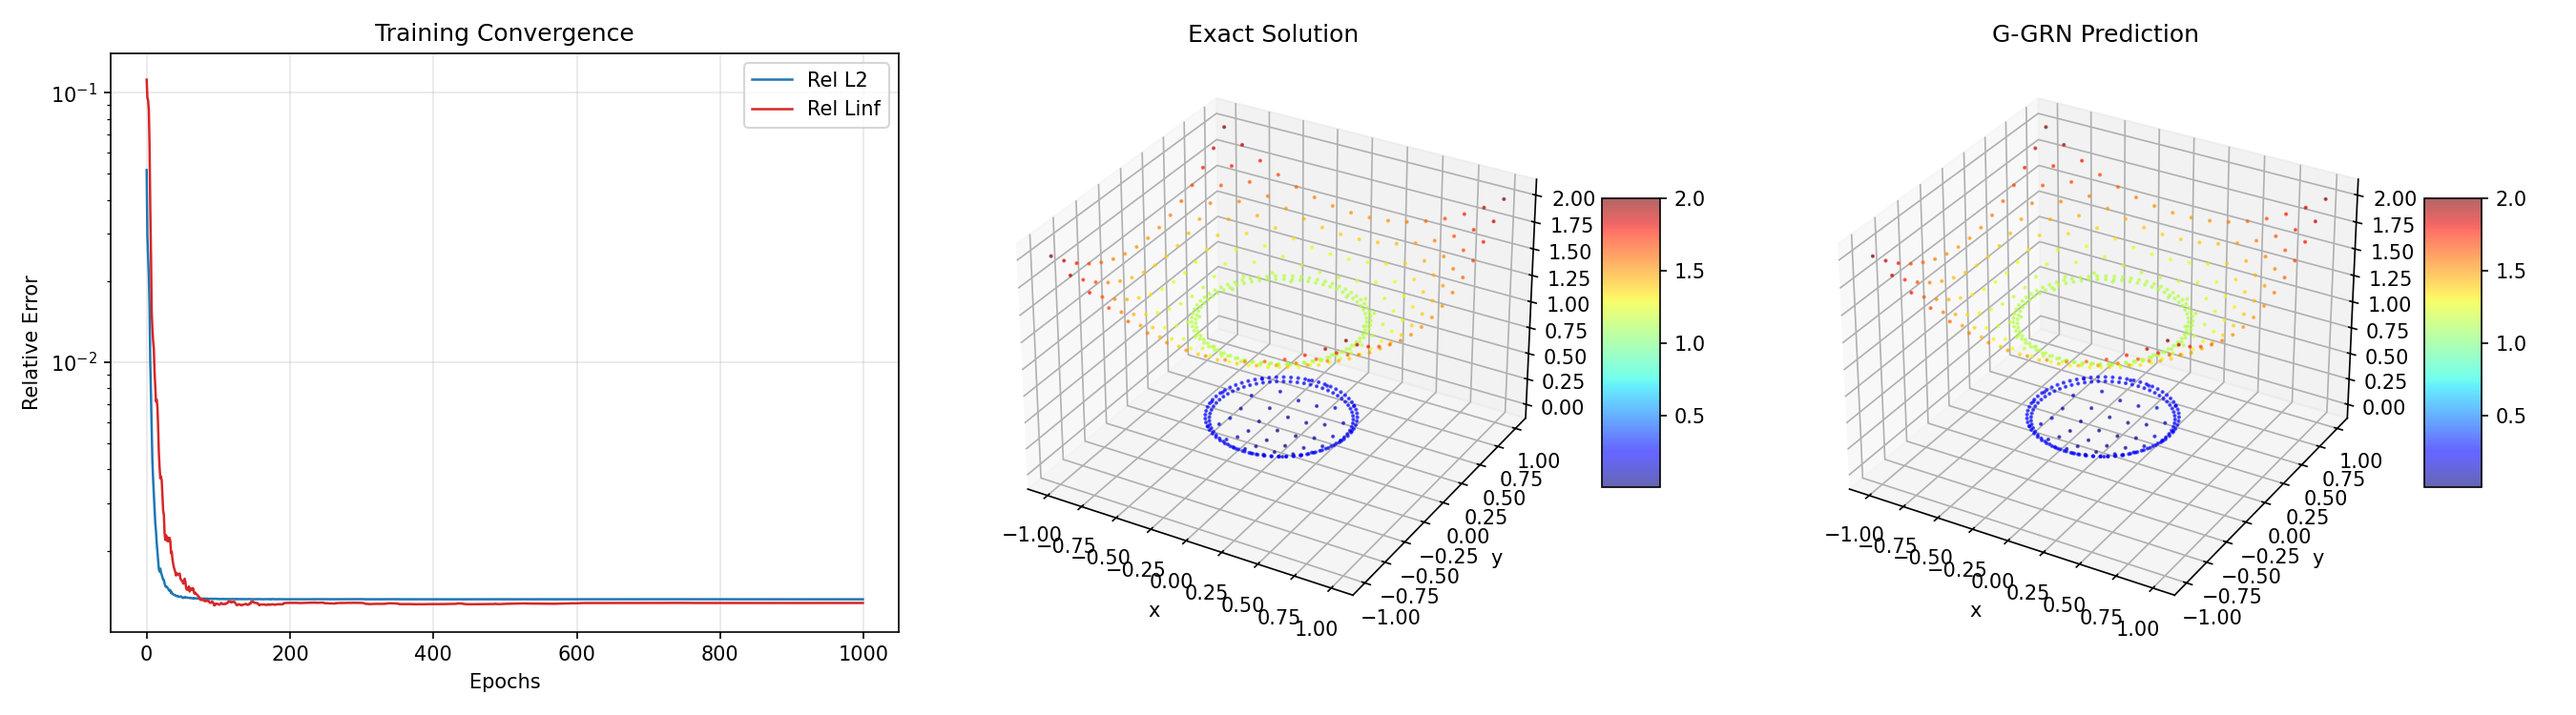
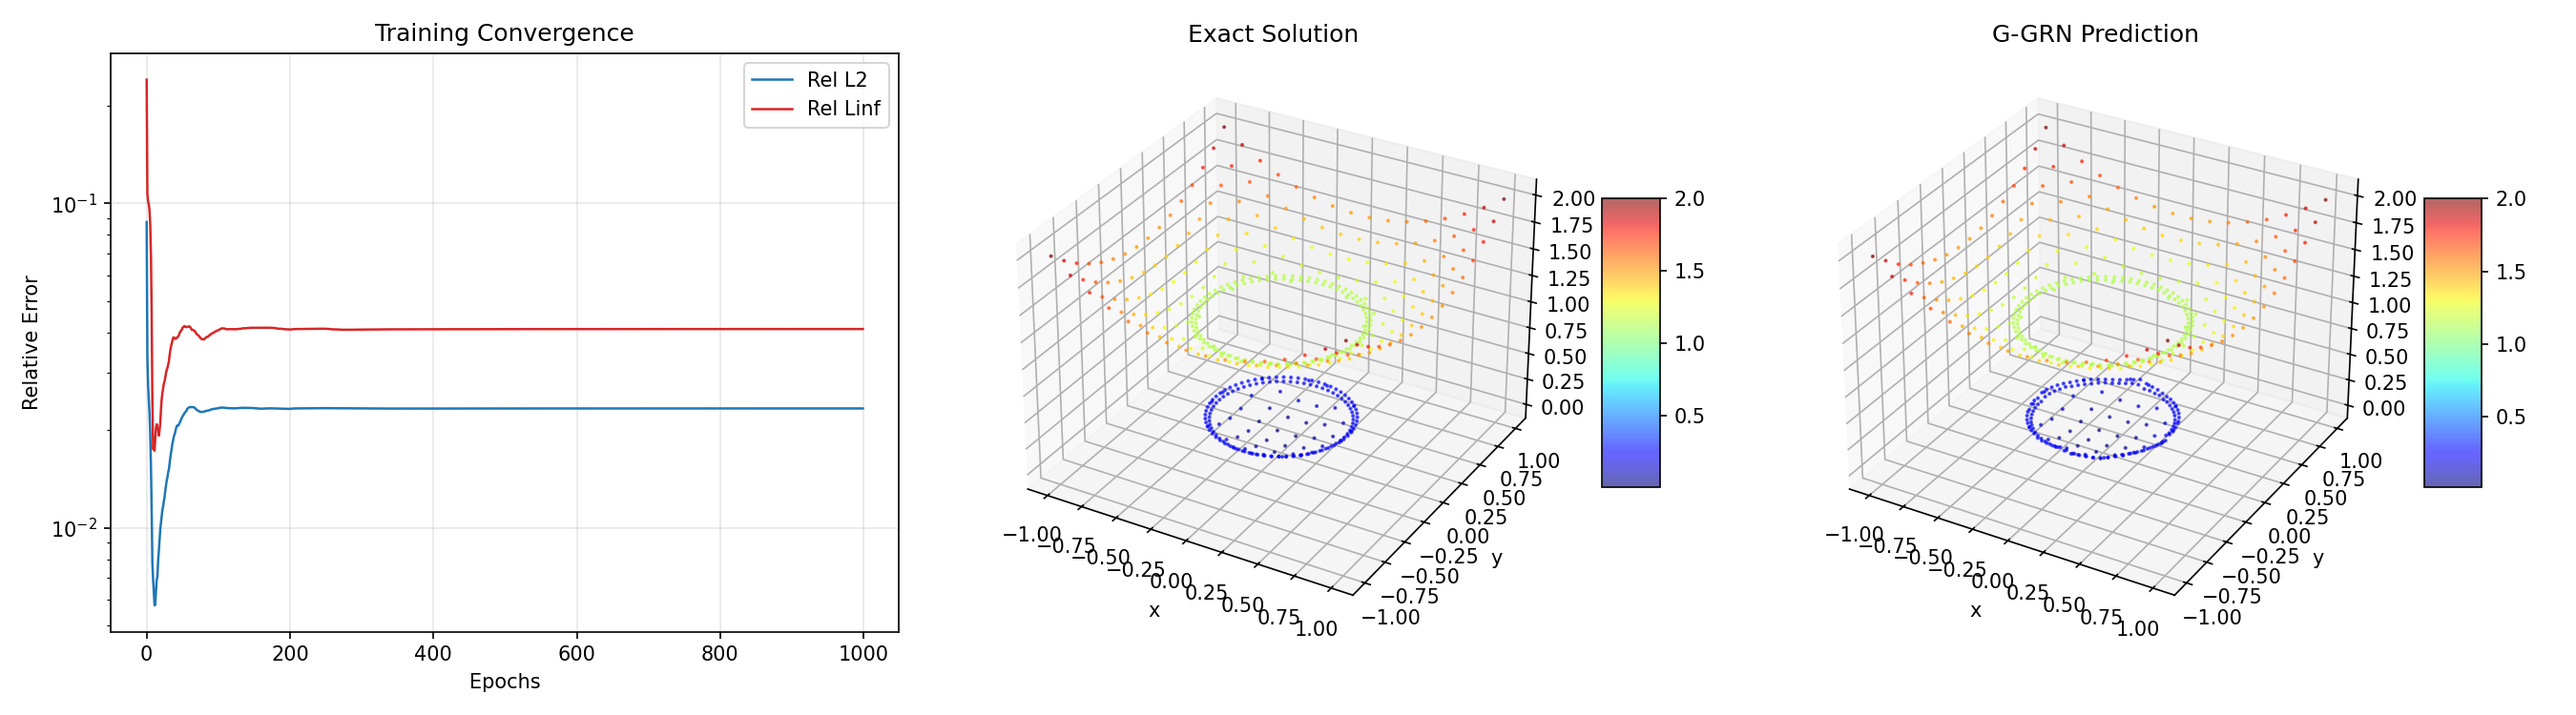
exp:fix model layer

diff --git a/log.py b/log.py
@@ -11,7 +11,7 @@ NUM_LAYERS = 2
 # Already completed. Uncomment to re-run.
 # for beta_m, beta_p in [(1, 10), (1, 100), (10, 1)]:
 #     for res in RESOLUTIONS:
-#         save_dir = f"./results/case1/beta-m-p-{beta_m}-{beta_p}-r-{res}"
+#         save_dir = f"./results/case1/beta-m-p-{beta_m}-{beta_p}-r-{res}--5%"
 #         os.system(
 #             f"python run.py --case mms --config configs/case1/beta-m-p-{beta_m}-{beta_p}.yaml "
 #             f"--resolution {res} --num_layers {NUM_LAYERS} --epochs 1000 "
@@ -20,7 +20,7 @@ NUM_LAYERS = 2
 
 # --- Case 2: Oscillating Angular Solution ---
 # for res in RESOLUTIONS:
-#     save_dir = f"./results/case2/r-{res}"
+#     save_dir = f"./results/case2/r-{res}--5%"
 #     os.system(
 #         f"python run.py --case oscillating --config configs/case2/config.yaml "
 #         f"--resolution {res} --num_layers {NUM_LAYERS} --epochs 2000 "
@@ -29,7 +29,7 @@ NUM_LAYERS = 2
 
 # --- Case 3: Elliptic Interface ---
 for res in RESOLUTIONS:
-    save_dir = f"./results/case3/r-{res}-single-phase"
+    save_dir = f"./results/case3/r-{res}-single-phase--5%"
     os.system(
         f"python run.py --case elliptic --config configs/case3/config.yaml "
         f"--resolution {res} --num_layers {NUM_LAYERS} --epochs 2000 "

diff --git a/loss.py b/loss.py
@@ -159,8 +159,12 @@ class ConsistentStrongFormLoss(nn.Module):
             loss_j2 = torch.tensor(0.0, device=u_pred.device)
             loss_jump = torch.tensor(0.0, device=u_pred.device)
 
-        # === Term 4: Supervised Data Loss ===
-        loss_data = (u_pred - data.y).pow(2).mean()
+        # === Term 4: Supervised Data Loss (masked to train_idx, 5% semi-supervision) ===
+        if hasattr(data, 'train_idx') and data.train_idx is not None:
+            idx = data.train_idx
+            loss_data = (u_pred[idx] - data.y[idx]).pow(2).mean()
+        else:
+            loss_data = torch.tensor(0.0, device=u_pred.device)
 
         # Total Loss
         total_loss = self.w_pde * loss_pde + self.w_bc * loss_bc + loss_jump + self.w_data * loss_data

diff --git a/baseline/pinn.py b/baseline/pinn.py
@@ -95,8 +95,12 @@ class PINNStrongFormLoss(nn.Module):
         else:
             loss_jump = torch.tensor(0.0, device=u_pred.device)
 
-        # 4. Data Loss
-        loss_data = (u_pred - data.y).pow(2).mean()
+        # 4. Data Loss (masked to train_idx, identical 5% supervision for fair comparison with G-GRN)
+        if hasattr(data, 'train_idx') and data.train_idx is not None:
+            idx = data.train_idx
+            loss_data = (u_pred[idx] - data.y[idx]).pow(2).mean()
+        else:
+            loss_data = torch.tensor(0.0, device=u_pred.device)
 
         total_loss = self.w_pde * loss_pde + self.w_bc * loss_bc + self.w_jump * loss_jump + self.w_data * loss_data
 

diff --git a/reviewer_comments/2026_4_7.md b/reviewer_comments/2026_4_7.md
@@ -1,0 +1,50 @@
+**Reviewer Report**
+
+**Recommendation:** Major Revision / Reject and Resubmit  
+**Journal:** [SCIE Q2 Journal Name]
+
+### **总体评价 (General Comments)**
+
+本文提出了一种结合广义有限差分（GFD）和图神经网络（GNN）的方法（G-GRN），用于求解具有不连续系数的椭圆型偏微分方程界面问题。作者使用预先计算的 GFD 差分权重替代标准 PINN 中的自动微分（Autograd），并在 2D 界面问题上展示了其比标准 PINN 更高的精度和收敛性。
+
+尽管将经典数值差分模板（Stencil）融入图神经网络消息传递机制是一个有意思的切入点，但本文在**核心概念的准确性、对比基线的选择、对数据的依赖性以及算法必要性**上存在重大缺陷。为了达到本期刊的发表标准，作者必须对以下几个核心问题做出合理的解释和大幅修改。
+
+---
+
+### **主要质疑与批评 (Major Comments)**
+
+**1. 概念误用：“Neural Operator（神经算子）”的宣称与实验不符**
+* **质疑：** 论文标题及正文中多次强调 G-GRN 是一种“Neural Operator（神经算子）”（如 FNO, DeepONet 等）。然而，真正的算子学习应当学习从无限维函数空间到函数空间的映射（例如，学习不同源项 $f(\mathbf{x})$ 或不同系数场 $\beta(\mathbf{x})$ 到解 $u(\mathbf{x})$ 的通用映射）。
+* **批评：** 纵观整篇论文的实验部分（Section 4），作者的训练和推断完全是在**单一固定的方程实例（Single instance）**上进行的。模型仅仅是在拟合当前条件下的单个解，这本质上依然是典型的 PINN（基于物理的神经网络）求解器模式，而非算子学习。如果作者不能证明 G-GRN 在未经重新训练的情况下泛化到未见过的 $f(\mathbf{x})$、$\beta(\mathbf{x})$ 或几何界面 $\Gamma$ 上，就必须从标题和正文中全面删除“Neural Operator”的误导性表述，否则属于严重的概念偷换。
+
+**2. 缺乏纯经典数值方法的对比（Why use Neural Networks?）**
+* **质疑：** 作者在 3.2 节中花费大量篇幅预计算了 GFD 模板，并构建了稀疏拉普拉斯矩阵 $\mathbf{L}$。既然局部导数完全由预计算的 GFD 模板提供，那么本质上整个偏微分方程已经被离散化为一个代数方程组 $\mathbf{Lu} = \mathbf{f}$（加上跳跃条件）。
+* **批评：** 既然已经有了高精度的 $\mathbf{L}$，为什么不直接使用传统的迭代求解器（如 GMRES, AMG）或最小二乘法求解该离散系统？引入一个多层 MLP 并使用 L-BFGS 训练数千个 Epoch，其计算代价和必要性何在？作者**必须加入纯经典 GFD 方法作为 Baseline** 进行精度和计算时间的对比，以证明引入 GNN 框架确实带来了传统方法无法企及的优势（例如更强的抗噪性、处理极端几何退化的能力等），否则整个深度学习框架的动机是不成立的。
+
+**3. 实验基线（Baseline）的不公平性与数据泄露问题**
+* **质疑：** 在 3.4 节（公式 16）中，作者引入了 5% 的 MMS（精确解）作为监督数据（$\mathcal{L}_{data}$），并在 3.5 节提到在“第一阶段”完全由数据驱动主导（$\lambda_{data} \gg \lambda_{pde}$）。
+* **批评：** 
+  * 首先，在对比基线（Table 2 的 PINN）时，作者是否也为标准 PINN 提供了这 5% 的精确解监督数据？如果标准 PINN 是纯物理驱动的（无监督），而 G-GRN 使用了 5% 的真值数据进行 Curriculum Learning，这种对比是极其不公平的。
+  * 其次，对于界面问题，这 5% 的数据采样点是如何分布的？如果刚好采样在了界面附近最难求解的区域，那么模型精度的提升很可能仅仅是因为“看到了答案”，而非 GFD 机制的功劳。作者需要提供**零观测数据（0% data）**下的 G-GRN 表现（即纯物理驱动），进行消融实验（Ablation Study）。
+
+**4. 理论证明缺失与严谨性**
+* **质疑：** 作者在 3.2 节提出了 Proposition 1（GFD Stencil 的一致性）。
+* **批评：** 论文正文中直接给出了命题，但既没有提供任何数学证明，也没有提供参考文献引述（如果是已有工作）。对于一篇包含严谨偏微分方程数值分析的论文，提出 Proposition 却不给证明（哪怕放在 Appendix 中）是不可接受的。
+
+**5. 规模与扩展性局限 (Scalability)**
+* **质疑：** 实验中测试的最高分辨率仅为 $N=64$（Table 1）。对于传统的数值方法或现代神经网络求解器来说，$64 \times 64$ 的网格在 2D 问题上是非常小且粗糙的（通常测试到 $256 \times 256$ 或 $512 \times 512$）。
+* **批评：** 为何不测试更高的分辨率？是因为计算 GFD 权重的 WLS 矩阵求逆过程在节点增多时计算开销过大（如公式 8 所示），还是因为模型内存受限？此外，作者需要在结论中客观讨论该图构造方法在 3D 复杂界面问题上的计算复杂度挑战。
+
+---
+
+### **次要意见 (Minor Comments)**
+
+1. **符号定义不清：** 在公式 (10) 中，$\mathcal{D}[\mathbf{h}_i^{(\ell)}]$ 的具体拼接或运算方式表述不够清晰。它是如何严格对应到多元输出的？请补充维度变化说明。
+2. **计算时间对比：** Table 1 和 Table 2 中的 CPU Time（作者在正文中写的是在 NVIDIA RTX PRO 6000 GPU 上运行，但表格标题是 CPU Time(s)，这里是笔误还是确实只算了 CPU 端时间？），而且对于 $N=64$ 这种规模，花费 40~110 秒求解一个 2D Poisson 方程，相比统计算法似乎没有展现出效率优势，建议对此进行客观讨论。
+3. **超参数敏感度：** 模型依赖大量超参数（$\lambda_{pde}, \lambda_{bc}, \lambda_\Gamma, \lambda_{data}$，WLS fall-back threshold $10^3$，$r_c$ 的选取等），缺乏针对这些超参数的敏感性分析（Sensitivity Analysis）。
+
+---
+
+### **给作者的建议总结 (Summary for Authors)**
+
+本文融合数值离散与图网络的思想具有启发性，但在目前的版本中，它看起来更像是一个**“过度复杂的、打了真值补丁的传统 GFD 求解器”**，而不是一个泛化性强的神经算子。请修改文章的定位，补充与经典方法的对比，并确保基线对比的绝对公平。只有在正面回应并解决上述核心质疑后，本手稿才有可能达到发表标准。
